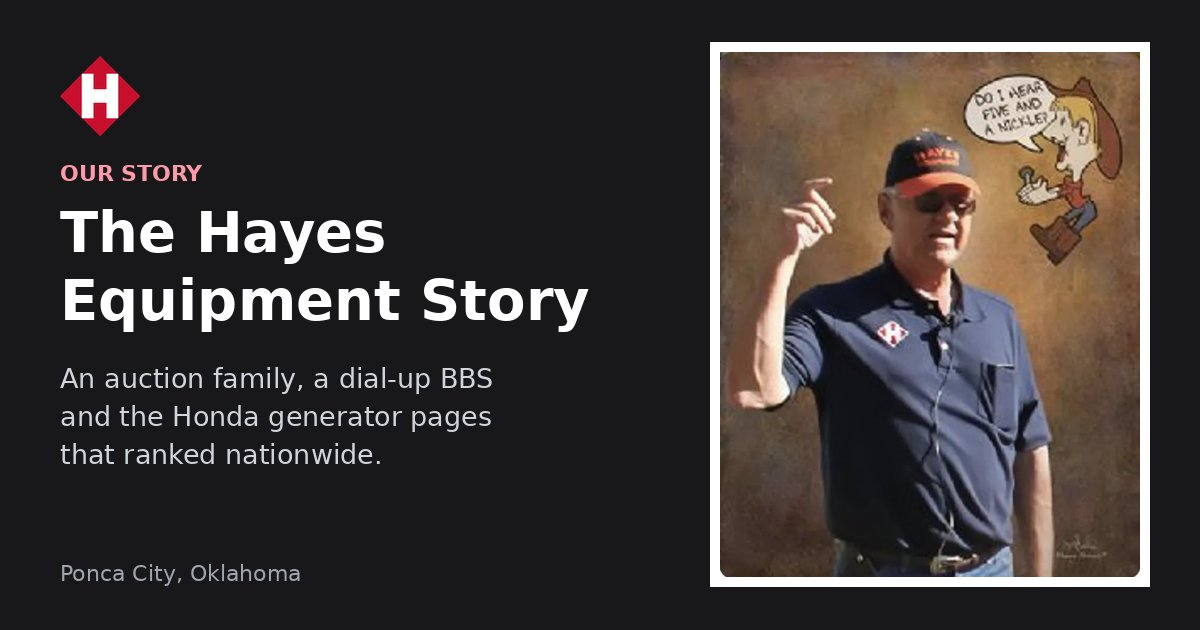
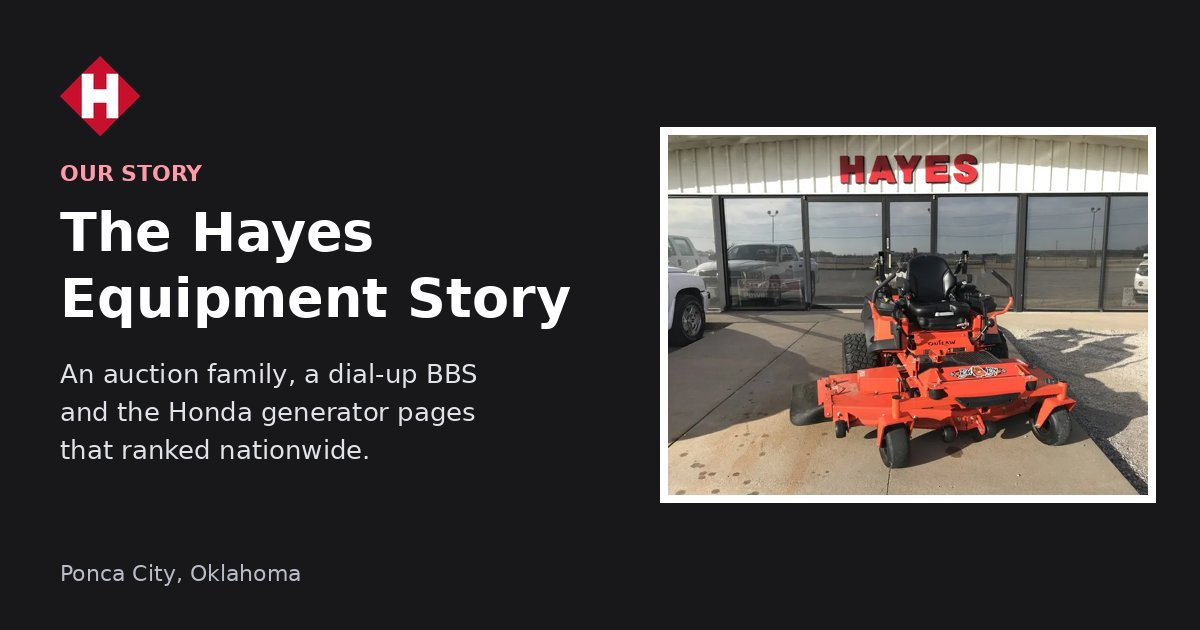
Story page: new H1 and storefront share image
Claude-Session: https://claude.ai/code/session_01RiMyf8AxgpMRotGEWNooJi

diff --git a/public/about/index.html b/public/about/index.html
@@ -8,7 +8,7 @@
 <link rel="canonical" href="https://www.hayesequipment.com/about/">
 <meta property="og:type" content="website"><meta property="og:site_name" content="Hayes Equipment"><meta property="og:locale" content="en_US">
 <meta property="og:title" content="The Hayes Equipment Story: A Ponca City Family Business, Purple Haze BBS, and How I Fell in Love with SEO"><meta property="og:description" content="How a Ponca City auction family, a dial-up BBS called Purple Haze, Hayes Computer, and the Honda generator pages on hayesequipment.com started Todd Hayes on a lifelong path in website design and SEO."><meta property="og:url" content="https://www.hayesequipment.com/about/">
-<meta property="og:image" content="https://www.hayesequipment.com/img/hayes-equipment-story-share.jpg"><meta property="og:image:width" content="1200"><meta property="og:image:height" content="630"><meta property="og:image:alt" content="The Hayes Equipment Story by Todd Hayes, with John B. Hayes and the Worlds Best SysOp trophy">
+<meta property="og:image" content="https://www.hayesequipment.com/img/hayes-equipment-story-share.jpg"><meta property="og:image:width" content="1200"><meta property="og:image:height" content="630"><meta property="og:image:alt" content="The Hayes Equipment Story, with the Hayes Equipment storefront in Ponca City, Oklahoma">
 <meta name="twitter:card" content="summary_large_image"><meta name="twitter:title" content="The Hayes Equipment Story: A Ponca City Family Business, Purple Haze BBS, and How I Fell in Love with SEO"><meta name="twitter:description" content="How a Ponca City auction family, a dial-up BBS called Purple Haze, Hayes Computer, and the Honda generator pages on hayesequipment.com started Todd Hayes on a lifelong path in website design and SEO."><meta name="twitter:image" content="https://www.hayesequipment.com/img/hayes-equipment-story-share.jpg">
 <meta name="theme-color" content="#232428">
 <link rel="icon" href="/favicon.ico" sizes="any"><link rel="icon" href="/favicon.svg" type="image/svg+xml"><link rel="icon" href="/favicon-32.png" sizes="32x32" type="image/png">
@@ -33,7 +33,7 @@
 <main class="story">
 <section class="story-hero"><div class="container">
   <span class="eyebrow">Our story</span>
-  <h1>The Hayes Equipment Story: How a Ponca City Family Business Taught Me to Get Found Online</h1>
+  <h1>The Hayes Equipment Story: How Our Ponca City Family Business Started My Career in SEO</h1>
   <p class="byline">By Todd Hayes &middot; Ponca City, Oklahoma</p>
 </div></section>
 

diff --git a/build.py b/build.py
@@ -347,11 +347,11 @@ tl = "".join(f"<li><b>{y}</b><span>{t}</span></li>" for y, t in TIMELINE)
 write("/about/", head(
     "The Hayes Equipment Story: A Ponca City Family Business, Purple Haze BBS, and How I Fell in Love with SEO",
     "How a Ponca City auction family, a dial-up BBS called Purple Haze, Hayes Computer, and the Honda generator pages on hayesequipment.com started Todd Hayes on a lifelong path in website design and SEO.",
-    "/about/", about_schema, og="/img/hayes-equipment-story-share.jpg", og_alt="The Hayes Equipment Story by Todd Hayes, with John B. Hayes and the Worlds Best SysOp trophy") + f"""
+    "/about/", about_schema, og="/img/hayes-equipment-story-share.jpg", og_alt="The Hayes Equipment Story, with the Hayes Equipment storefront in Ponca City, Oklahoma") + f"""
 <main class="story">
 <section class="story-hero"><div class="container">
   <span class="eyebrow">Our story</span>
-  <h1>The Hayes Equipment Story: How a Ponca City Family Business Taught Me to Get Found Online</h1>
+  <h1>The Hayes Equipment Story: How Our Ponca City Family Business Started My Career in SEO</h1>
   <p class="byline">By Todd Hayes &middot; Ponca City, Oklahoma</p>
 </div></section>
 
